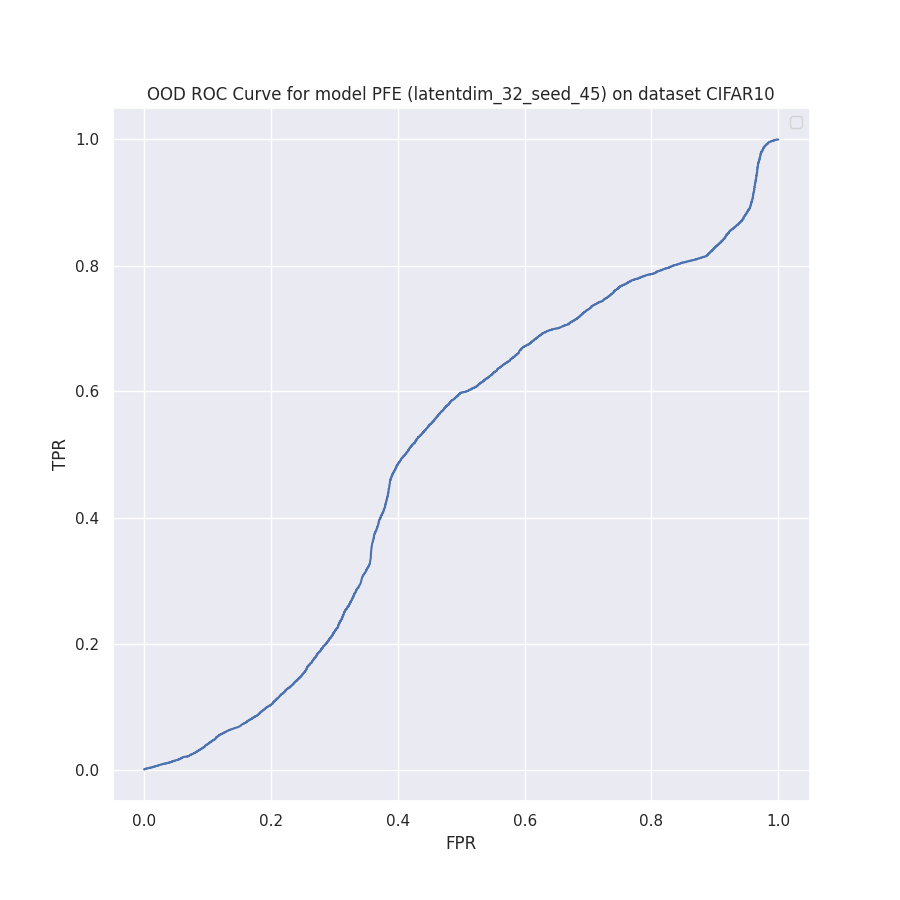
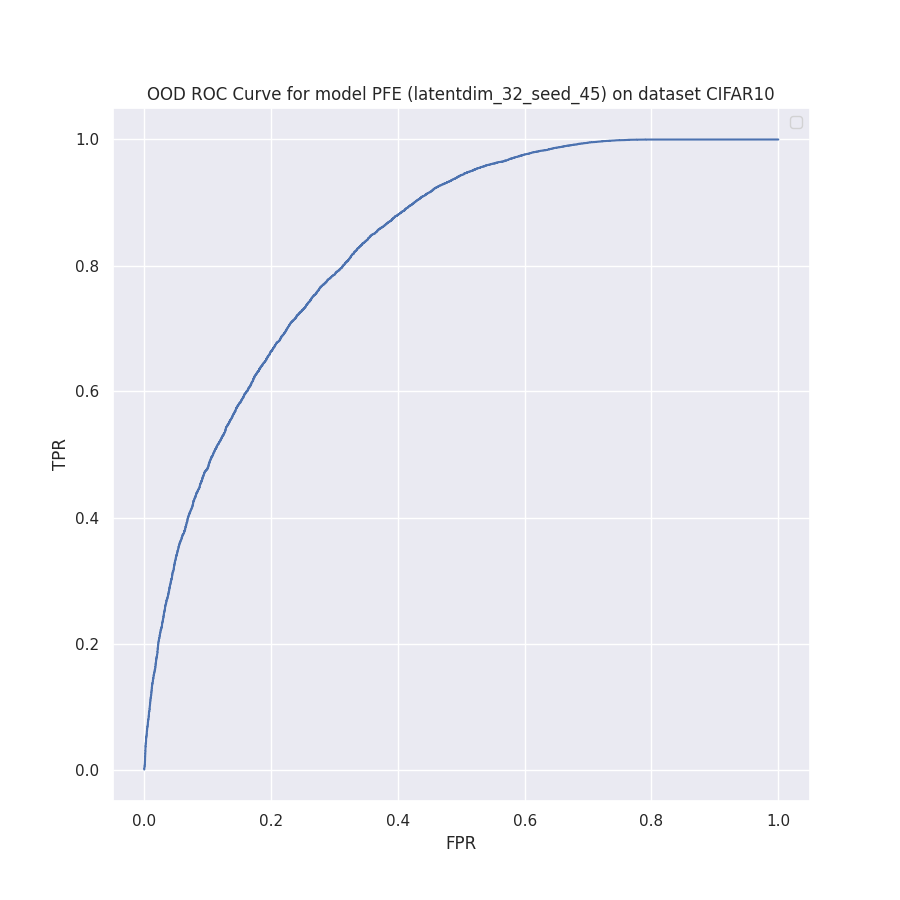
✨ feat(all): Fix miner to batch easy hard miner for all pairs

diff --git a/src/baselines/MCDropout/train.py b/src/baselines/MCDropout/train.py
@@ -38,7 +38,9 @@ def run(MCDropout_args):
         distance=distances.LpDistance(normalize_embeddings=False, p=2, power=1),
     )
 
-    miner = miners.PairMarginMiner(
+    miner = miners.BatchEasyHardMiner(
+        pos_strategy="all",
+        neg_strategy="all",
         distance=distances.LpDistance(normalize_embeddings=False, p=2, power=1),
     )
 

diff --git a/src/baselines/Backbone/train.py b/src/baselines/Backbone/train.py
@@ -64,7 +64,9 @@ def run(Backbone_args):
         distance=distances.LpDistance(normalize_embeddings=False, p=2, power=1),
     )
 
-    miner = miners.PairMarginMiner(
+    miner = miners.BatchEasyHardMiner(
+        pos_strategy="all",
+        neg_strategy="all",
         distance=distances.LpDistance(normalize_embeddings=False, p=2, power=1),
     )
 

diff --git a/src/baselines/PFE/train.py b/src/baselines/PFE/train.py
@@ -68,10 +68,9 @@ def run(PFE_args):
 
     loss = MLSLoss()
 
-    # Get all positive pairs for the loss
     miner = miners.BatchEasyHardMiner(
         pos_strategy="all",
-        neg_strategy="hard",
+        neg_strategy="all",
         distance=distances.LpDistance(normalize_embeddings=False, p=2, power=1),
     )
 

diff --git a/src/baselines/DUL/train.py b/src/baselines/DUL/train.py
@@ -56,8 +56,8 @@ def run(dul_args):
     )
 
     miner = miners.BatchEasyHardMiner(
-        pos_strategy="easy",
-        neg_strategy="semihard",
+        pos_strategy="all",
+        neg_strategy="all",
         distance=distances.LpDistance(normalize_embeddings=False, p=2, power=1),
     )
 
